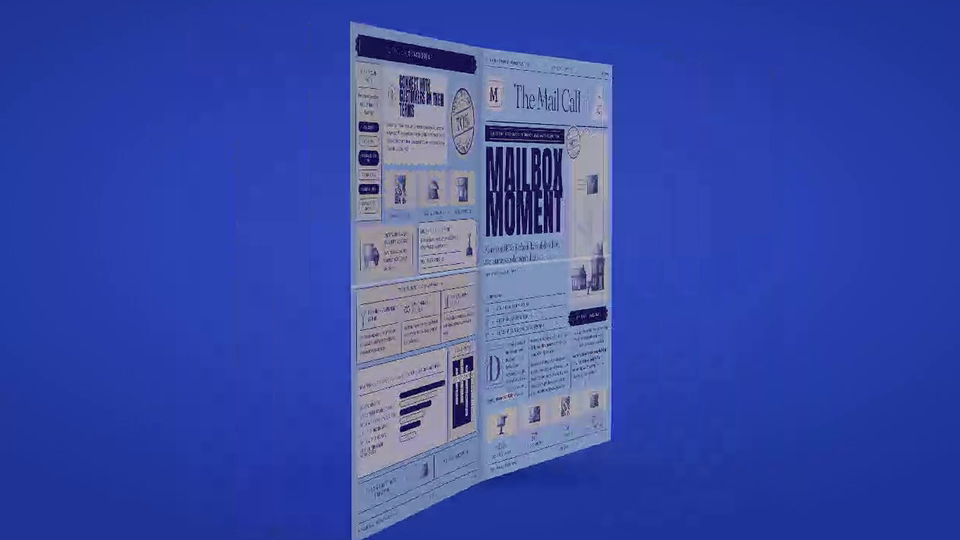
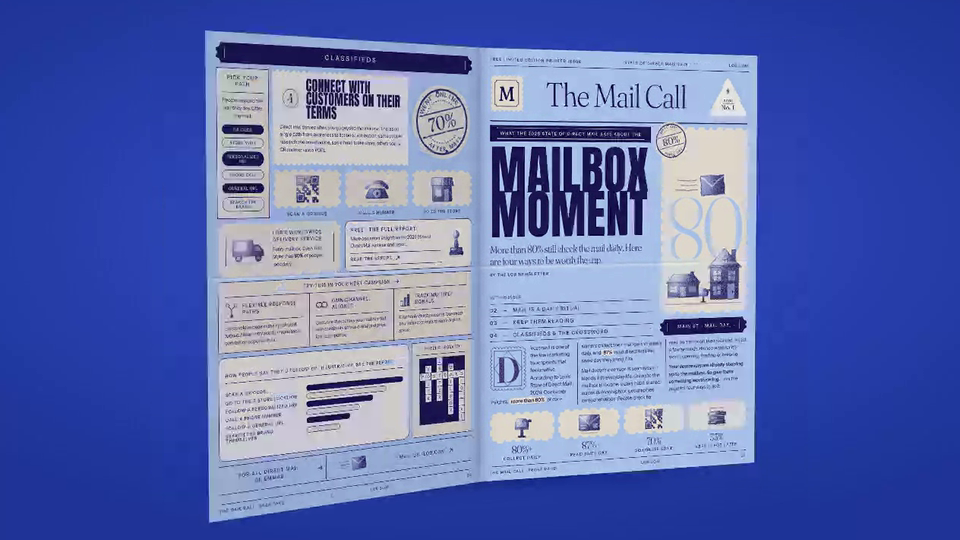
Lob Mail Call: stamp edge on the tiles instead of scallops (#939)
* Lob Mail Call: restyle as a Christmas market ticket sheet

Cream stock in royal blue, periwinkle and deep ink: perforated tickets,
scalloped tiles, drop pin label, round rubber and triangle stamps, an M
monogram stamp, hairline schedule panels and link rows, tracked caps,
a light serif for decks and stats, framed graphite drop caps and pencil
grain drawings. Anton stays for the tall headlines. Viewer backdrop is
now royal blue; favicon, homepage alt and clip re-recorded.

Claude-Session: https://claude.ai/code/session_016rpguc5B5SYFcQkza5DeAg

* Lob Mail Call: full bleed route map, ticket stats, roomier stamp arcs

Page 3: a full bleed royal blue pencil map (pines, river, dotted
highways, interstate shields, state lines) with one white route from
Print to Combine to Delivery across Illinois, Indiana and Ohio. The
stats are white perforated tickets with a framed drawing cell, sitting
across the map's bottom edge; 33% uses the same ticket. "Give people a
reason to" runs inline with KEEP READING. Rubber stamp arc text is
evenly spaced and shortened. Clip re-recorded.

Claude-Session: https://claude.ai/code/session_016rpguc5B5SYFcQkza5DeAg

* Lob Mail Call: periwinkle stock, hand sketched drawings, front facing houses

Periwinkle page stock with white and beige surfaces, navy ink for type,
tickets, pills and bars; the route map keeps its royal blue. Drawings
are hand sketched graphite: wobbled edges, round shading, cross
[…]

diff --git a/lob-mail-call/index.html b/lob-mail-call/index.html
@@ -132,7 +132,8 @@ html.clip .pg::before{background:linear-gradient(to bottom,transparent 49.6%,rgb
 .perf{--p:14px;--h:4.2px;background:var(--card);mask:radial-gradient(circle var(--h) at 50% 0,#0000 95%,#000) 0 0/var(--p) 100% round,radial-gradient(circle var(--h) at 50% 100%,#0000 95%,#000) 0 0/var(--p) 100% round;mask-composite:intersect}
 .stp{--p:12px;--h:3.6px;background:var(--peri);mask:radial-gradient(circle var(--h) at 50% 0,#0000 95%,#000) 0 0/var(--p) 100% round,radial-gradient(circle var(--h) at 50% 100%,#0000 95%,#000) 0 0/var(--p) 100% round,
   radial-gradient(circle var(--h) at 0 50%,#0000 95%,#000) 0 0/100% var(--p) round,radial-gradient(circle var(--h) at 100% 50%,#0000 95%,#000) 0 0/100% var(--p) round;mask-composite:intersect}
-.scal{--s:20px;background:var(--peri);mask:linear-gradient(#000 0 0) 50% 50%/calc(100% - var(--s)) calc(100% - var(--s)) no-repeat,radial-gradient(circle closest-side,#000 96%,#0000) 0 0/var(--s) var(--s) round}
+/* stamp edge: straight sides with spaced round bites and notched corners (the old scallop is gone) */
+.scal{--p:24px;--h:5.5px;--n:9px;background:var(--peri);mask:radial-gradient(circle var(--n) at 0 0,#0000 97%,#000),radial-gradient(circle var(--n) at 100% 0,#0000 97%,#000),radial-gradient(circle var(--n) at 0 100%,#0000 97%,#000),radial-gradient(circle var(--n) at 100% 100%,#0000 97%,#000),radial-gradient(circle var(--h) at 50% 0,#0000 95%,#000) 50% 0/var(--p) 100% round,radial-gradient(circle var(--h) at 50% 100%,#0000 95%,#000) 50% 0/var(--p) 100% round,radial-gradient(circle var(--h) at 0 50%,#0000 95%,#000) 0 50%/100% var(--p) round,radial-gradient(circle var(--h) at 100% 50%,#0000 95%,#000) 0 50%/100% var(--p) round;mask-composite:intersect}
 .cloud{--s:22px;background:var(--peri);mask:linear-gradient(#000 0 0) 50% 50%/calc(100% - var(--s)) 100% no-repeat,radial-gradient(circle closest-side,#000 96%,#0000) 0 0/var(--s) var(--s) round}
 .notch{--n:10px;mask:radial-gradient(circle var(--n) at 0 0,#0000 97%,#000),radial-gradient(circle var(--n) at 100% 0,#0000 97%,#000),radial-gradient(circle var(--n) at 0 100%,#0000 97%,#000),radial-gradient(circle var(--n) at 100% 100%,#0000 97%,#000);mask-composite:intersect}
 .panel{background:var(--peri);border:var(--hl) solid var(--ink)}
@@ -421,7 +422,7 @@ const PG=[
     <div class="toc" style="margin-top:auto;padding-top:14px"><div class="tc" style="font-size:9.5px;padding:0 0 9px;border-bottom:var(--hl) solid var(--ink)">In this issue</div>${[['02','Mail is a daily ritual'],['03','Keep them reading'],['04','Classifieds &amp; the crossword']].map(r=>`<div class="tocr"><span>${r[0]}</span><span>—</span><span>${r[1]}</span></div>`).join('')}</div>
   </div>
   <div class="fl" style="gap:12px">
-    <div style="flex:1;position:relative;display:flex"><div class="scal" style="--s:30px;flex:1;padding:26px 14px 16px">${scene()}</div><div class="callout" style="left:-22px;top:-16px;width:100px;height:100px">${rubber('MAIL DAY','80%','EVERY DAY',-14,'Stamp: 80 percent check daily')}</div></div>
+    <div style="flex:1;position:relative;display:flex"><div class="scal" style="--p:28px;--h:6.5px;--n:11px;flex:1;padding:26px 14px 16px">${scene()}</div><div class="callout" style="left:-22px;top:-16px;width:100px;height:100px">${rubber('MAIL DAY','80%','EVERY DAY',-14,'Stamp: 80 percent check daily')}</div></div>
     <div class="tkt" style="padding:13px 30px"><span class="tc" style="font-size:11px;letter-spacing:.22em;white-space:nowrap">Main St. · mail day</span></div>
   </div>
 </div>
